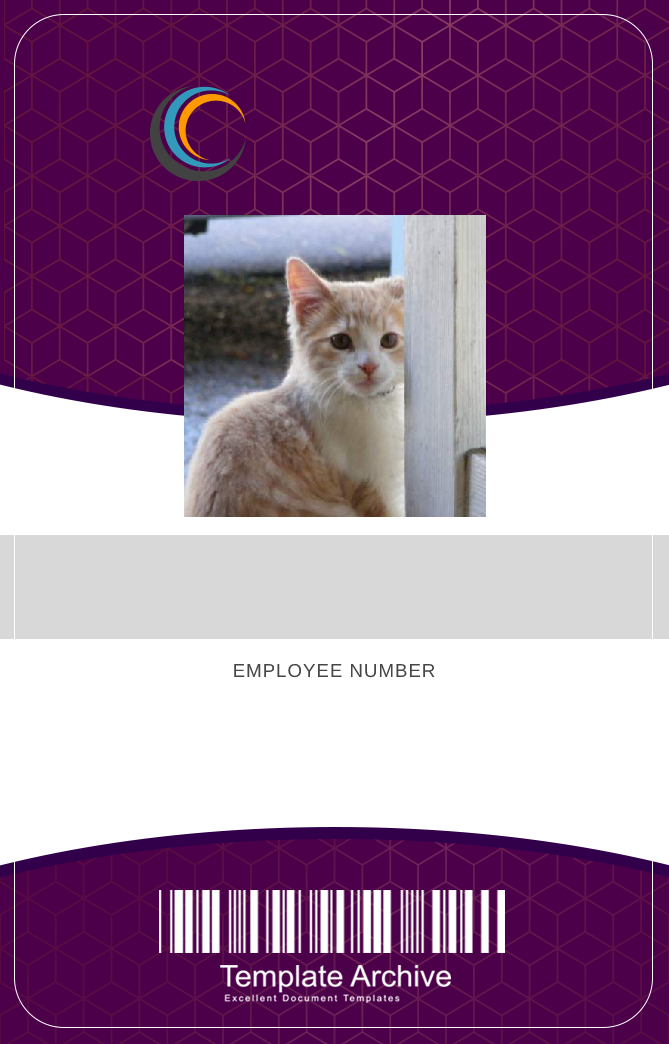
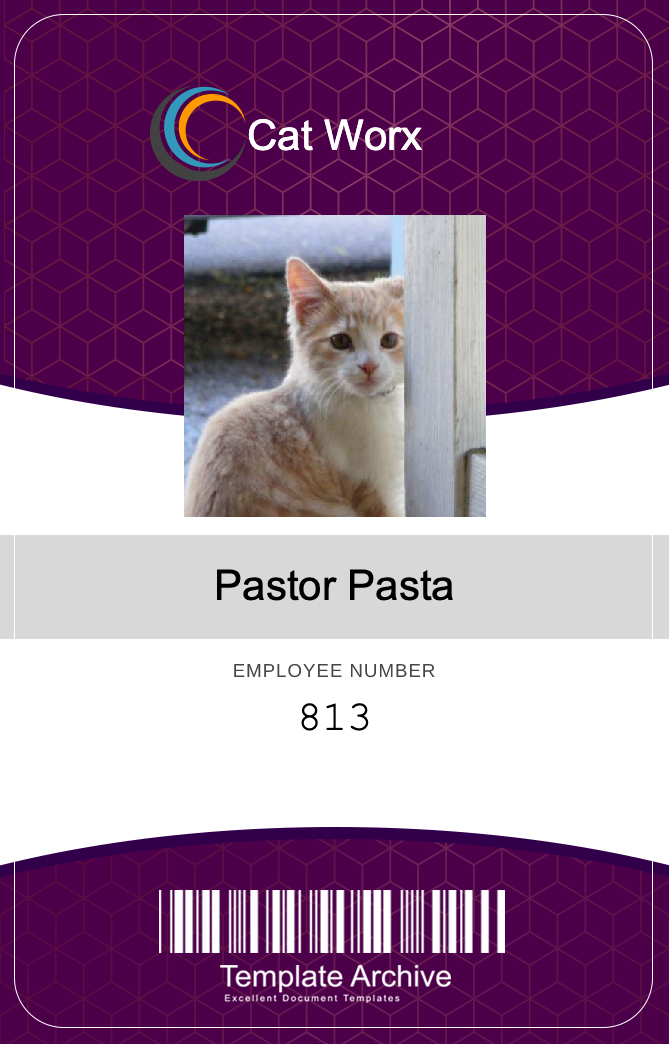
complete MakeBadges function to output all employee info onto badge and create distinct files for each employee entry

Changed region(s): [[0.299, 0.5211, 0.6876, 0.5824], [0.3587, 0.092, 0.6278, 0.1533], [0.4484, 0.6743, 0.568, 0.705]]

diff --git a/CatWorx.BadgeMaker/Util.cs b/CatWorx.BadgeMaker/Util.cs
@@ -71,14 +71,16 @@ namespace CatWorx.BadgeMaker
             int PHOTO_BOTTOM_Y = 517;
 
             int COMPANY_NAME_Y = 150;
+
+            int EMPLOYEE_NAME_Y = 600;
+
+            int EMPLOYEE_ID_Y = 730;
             // text SKPaint object properties
             SKPaint paint = new SKPaint();
             paint.TextSize = 42.0f;
             paint.IsAntialias = true;
-            paint.Color = SKColors.White;
             paint.IsStroke = false;
             paint.TextAlign = SKTextAlign.Center;
-            paint.Typeface = SKTypeface.FromFamilyName("Arial");
 
             using (HttpClient client = new HttpClient())
             {
@@ -99,18 +101,36 @@ namespace CatWorx.BadgeMaker
                         new SKRect(PHOTO_LEFT_X, PHOTO_TOP_Y, PHOTO_RIGHT_X, PHOTO_BOTTOM_Y)
                     );
 
-                    // Draw employee text info
                     // Company name
+                    paint.Color = SKColors.White;
+                    paint.Typeface = SKTypeface.FromFamilyName("Arial");
                     canvas.DrawText(
                         employees[i].GetCompanyName(),
-                        (BADGE_WIDTH / 2f),
+                        BADGE_WIDTH / 2f,
                         COMPANY_NAME_Y,
+                        paint
+                    );
+                    // Employee name
+                    paint.Color = SKColors.Black;
+                    canvas.DrawText(
+                        employees[i].GetFullName(),
+                        BADGE_WIDTH / 2f,
+                        EMPLOYEE_NAME_Y,
+                        paint
+                    );
+                    // Employee ID
+                    paint.Typeface = SKTypeface.FromFamilyName("Courier New");
+                    canvas.DrawText(
+                        employees[i].GetId().ToString(),
+                        BADGE_WIDTH / 2f,
+                        EMPLOYEE_ID_Y,
                         paint
                     );
 
                     SKImage finalImage = SKImage.FromBitmap(badge);
                     SKData data = finalImage.Encode();
-                    data.SaveTo(File.OpenWrite("data/employeeBadge.png"));
+                    string template = "data/{0}_badge.png";
+                    data.SaveTo(File.OpenWrite(String.Format(template, employees[i].GetId())));
                 }
             }
         }
